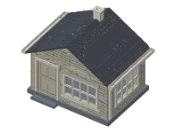
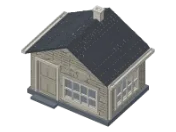
Planner: a garage outlined by its base, its front its own; the fit test stays put
A garage's outline is its base again; its steps, way up, props and stand
count on the track as pieces of their own, so empty table beside it is not
under it. Its front is the base, steps and way up: a prop in front pushes it
back only as far as the prop is on the track. A saved fit test turns round
the middle of its block as before. The Brick hut has a new picture.

diff --git a/tests/review-followups.test.js b/tests/review-followups.test.js
@@ -4,10 +4,52 @@ import assert from 'node:assert/strict';
 import test from 'node:test';
 import Module from 'manifold-3d';
 import { TEXTURE_DEFAULTS, wallJoints } from '../src/geometry/building-texture.js';
-import { buildFitTest, fitFootprint } from '../src/geometry/fit-test.js';
+import { FIT, buildFitTest, fitFootprint } from '../src/geometry/fit-test.js';
+import { KIT, validateBuilding } from '../src/geometry/building.js';
+import { headroomOver, layoutBuilding, overlap, shapeOf, snapPose, toPlan } from '../src/planner-buildings.js';
 
 const wasm = await Module();
 wasm.setup();
+const place = (building, pose) => layoutBuilding({ name: 'Test', building }, pose, 'b-1');
+const box = (x0, y0, x1, y1) => [[x0, y0], [x1, y0], [x1, y1], [x0, y1]];
+// A garage on legs with a drum on the table well out in front of it.
+const withDrum = (legs) => validateBuilding({ width: 120, depth: 100, door: 'none', ...(legs && { standType: 'legs', standHeight: 40 }), props: [{ type: 'drum', x: 50, y: -110, storey: -1 }] });
+
+test('a garage is outlined by its base; what stands beside it counts on the track, not the table between', () => {
+  const b = withDrum(true),
+    m = KIT.ledge;
+  assert.deepEqual(shapeOf(b).box, [-m, -m, b.width + m, b.depth + m]);
+  const entry = place(b, { x: b.width / 2, y: b.depth / 2, a: 0 });
+  // A track between the drum and the base, touching neither.
+  const between = box(-50, -60, 170, -20);
+  assert.equal(overlap(entry, [between]), 0);
+  assert.equal(headroomOver(entry, [{ polys: [between] }], () => 0), null, 'nothing over it');
+  // A track under the drum is on the track.
+  assert.ok(overlap(entry, [box(-50, -112, 170, -95)]) > 0.5);
+});
+
+test('a prop out in front, off to the side of the track, does not push a garage back from it', () => {
+  // The drum stands out in front and to the left, where the track does not run.
+  const b = validateBuilding({ width: 120, depth: 100, door: 'none', props: [{ type: 'drum', x: -80, y: -110, storey: -1 }] });
+  assert.equal(shapeOf(b).front.p[1], -KIT.ledge);
+  const track = box(-20, -400, 140, -150);
+  const entry = place(b, { x: 60, y: -90, a: 0 });
+  const pose = snapPose(entry, [track]);
+  assert.ok(pose, 'it snaps');
+  const snapped = { ...entry, pose };
+  assert.ok(overlap(snapped, [track]) < 0.5);
+  // Its front stands just clear of the track, not back by the drum's reach.
+  const [, y] = toPlan(snapped, [b.width / 2, -KIT.ledge]);
+  assert.ok(y > -150 && y < -140, 'its front ' + y.toFixed(1) + ' just clear of the track at -150');
+});
+
+test('a fit test turns round the middle of its block, where it always has', () => {
+  assert.deepEqual(shapeOf({ kind: 'fittest', play: 0.2 }).centre, [FIT.length / 2, FIT.depth / 2]);
+  // A saved one stays where it was.
+  const entry = place({ kind: 'fittest', play: 0.2 }, { x: 100, y: 100, a: 0.5 });
+  const [x, y] = toPlan(entry, [0, 0]);
+  assert.deepEqual([+x.toFixed(2), +y.toFixed(2)], [76.79, 73.65]);
+});
 
 test('a planked wall kept clear all over gives no cut, not an empty one', () => {
   const temp = [],

diff --git a/src/planner-buildings.js b/src/planner-buildings.js
@@ -19,7 +19,7 @@ import { stageFootprint } from './geometry/stage.js';
 import { switchbackFootprint } from './geometry/switchback.js';
 import { benchFootprint } from './geometry/bench.js';
 import { propsFootprint } from './geometry/props-kit.js';
-import { fitFootprint } from './geometry/fit-test.js';
+import { FIT, fitFootprint } from './geometry/fit-test.js';
 import { tyreFeet, tyreFootprint, tyreHeadroom } from './geometry/tyre-bridge.js';
 import { picnicFootprint } from './geometry/picnic.js';
 import { platformFootprint } from './geometry/viewing-platform.js';
@@ -214,6 +214,8 @@ export function shapeOf(b) {
     const [x0, y0, x1, y1] = fitFootprint();
     outline = rect(x0, y0, x1, y1);
     front = { p: [(x0 + x1) / 2, y0], f: [0, -1] };
+    // It turns round the middle of its block, as it always has: a layout keeps it in place.
+    mid = [FIT.length / 2, FIT.depth / 2];
   } else if (b.kind === 'props') {
     // The row of props along the track.
     const [x0, y0, x1, y1] = propsFootprint(b);
@@ -281,11 +283,14 @@ export function shapeOf(b) {
       mid = [(l + r) / 2, (t + u) / 2];
     }
   } else {
-    // Its base with the ledge, and what stands beside it: door steps, the way
-    // up, props on the table, a stand's feet. Its front is the frontmost of them.
-    const [x0, y0, x1, y1] = boxRect(garageRects(b));
-    outline = rect(x0, y0, x1, y1);
-    front = { p: [b.width / 2, y0], f: [0, -1] };
+    // Its base with the ledge; what stands beside it on the table (door steps,
+    // the way up, props, a stand's feet) is in its pieces (baseParts), which
+    // keep off the track. Its front is the frontmost of the base, the steps
+    // and the way up: a prop on the table does not push it back from the track.
+    const m = KIT.ledge,
+      { steps, way } = garageExtras(b);
+    outline = rect(-m, -m, b.width + m, b.depth + m);
+    front = { p: [b.width / 2, Math.min(-m, ...[...steps, ...way].map((r) => r[1]))], f: [0, -1] };
     // It turns round the middle of its walls, whatever stands beside it.
     mid = [b.width / 2, b.depth / 2];
   }
@@ -594,7 +599,9 @@ export function snapPose(entry, loops, radius = SNAP) {
     const [ux, uy] = [fp[0] - shape.centre[0], fp[1] - shape.centre[1]];
     // A curved grandstand's ends reach forward of the middle of its front: it may have to stand back that far.
     const sag = b.kind === 'grandstand' && b.curve ? b.curve.radius * (1 - Math.cos((b.curve.angle * Math.PI) / 360)) : 0;
-    for (let out = 0; out <= 30 + sag; out += 1) {
+    // A garage's props on the table out in front of it: it stands back as far as one of them is on the track.
+    const ahead = b.kind === 'garage' ? Math.max(0, ...garageExtras(b).props.map((r) => fp[1] - r[1])) : 0;
+    for (let out = 0; out <= 30 + sag + ahead; out += 1) {
       // The middle of its front GAP (and more) from the edge; the rest follows.
       const target = [at[0] + n[0] * (GAP + out), at[1] + n[1] * (GAP + out)];
       const pose = { x: target[0] - (c * ux - s * uy), y: target[1] - (s * ux + c * uy), a };

diff --git a/tests/review-planner.test.js b/tests/review-planner.test.js
@@ -75,10 +75,12 @@ test('every part a standard building stands on the table with lies inside its ou
         const at = atTable(part);
         if (!at) continue;
         const [l, d, r, u] = at.box;
-        assert.ok(l >= x0 - 0.05 && d >= y0 - 0.05 && r <= x1 + 0.05 && u <= y1 + 0.05, id + ': ' + part.id + ' at the table [' + at.box.map((v) => v.toFixed(1)) + '] beyond its outline [' + [x0, y0, x1, y1] + ']');
+        // A garage's outline is its base: what stands beside it is in its pieces, checked below.
+        const garage = b.kind === 'garage';
+        assert.ok(garage || (l >= x0 - 0.05 && d >= y0 - 0.05 && r <= x1 + 0.05 && u <= y1 + 0.05), id + ': ' + part.id + ' at the table [' + at.box.map((v) => v.toFixed(1)) + '] beyond its outline [' + [x0, y0, x1, y1] + ']');
         if (!at.polys.length) continue;
         const shadow = polygonClipping.union(...at.polys.map((ring) => [ring]));
-        assert.ok(area(polygonClipping.difference(shadow, [outline])) < 0.05, id + ': ' + part.id + ' outside its outline');
+        assert.ok(garage || area(polygonClipping.difference(shadow, [outline])) < 0.05, id + ': ' + part.id + ' outside its outline');
         assert.ok(area(polygonClipping.difference(shadow, base)) < 0.05, id + ': ' + part.id + ' stands on the table outside its ' + (spanOf(b) ? 'feet' : 'base'));
       }
     } finally {
@@ -92,7 +94,8 @@ test('a building with a prop in front snaps clear of the track: the prop too, no
   const b = validateBuilding(preset('ticket-office'));
   const barrier = garageExtras(b).props[0];
   assert.ok(barrier[1] < -KIT.ledge - 20, 'the barrier stands out in front');
-  assert.equal(shapeOf(b).front.p[1], barrier[1], 'its front is the front of the barrier');
+  // Its front is its own, not the barrier's: a prop does not push it back from the track.
+  assert.ok(shapeOf(b).front.p[1] > barrier[1] + 20, 'its front is not the front of the barrier');
   const rows = [straight(150, 8, -150)];
   const entry = place(b, { x: 0, y: 80, a: 0 });
   const pose = snapPose(entry, rows[0].polys);
